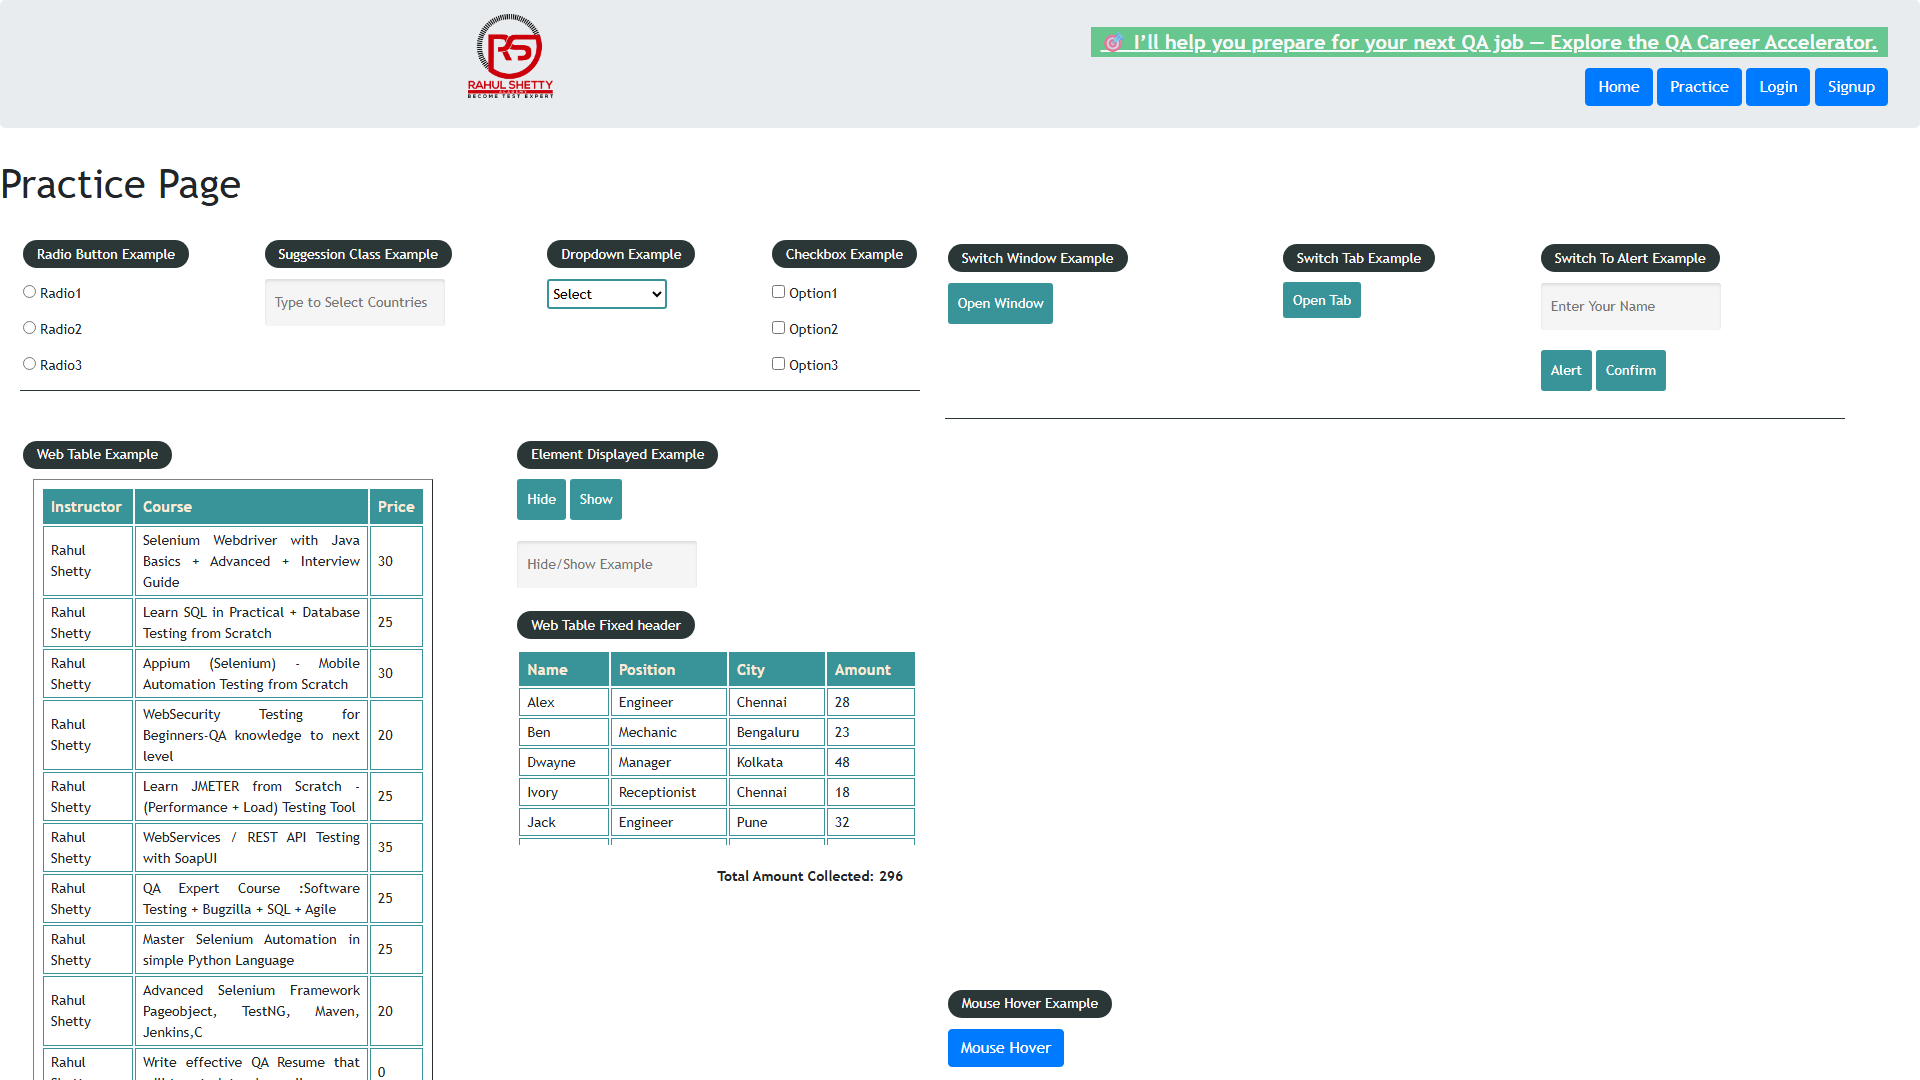
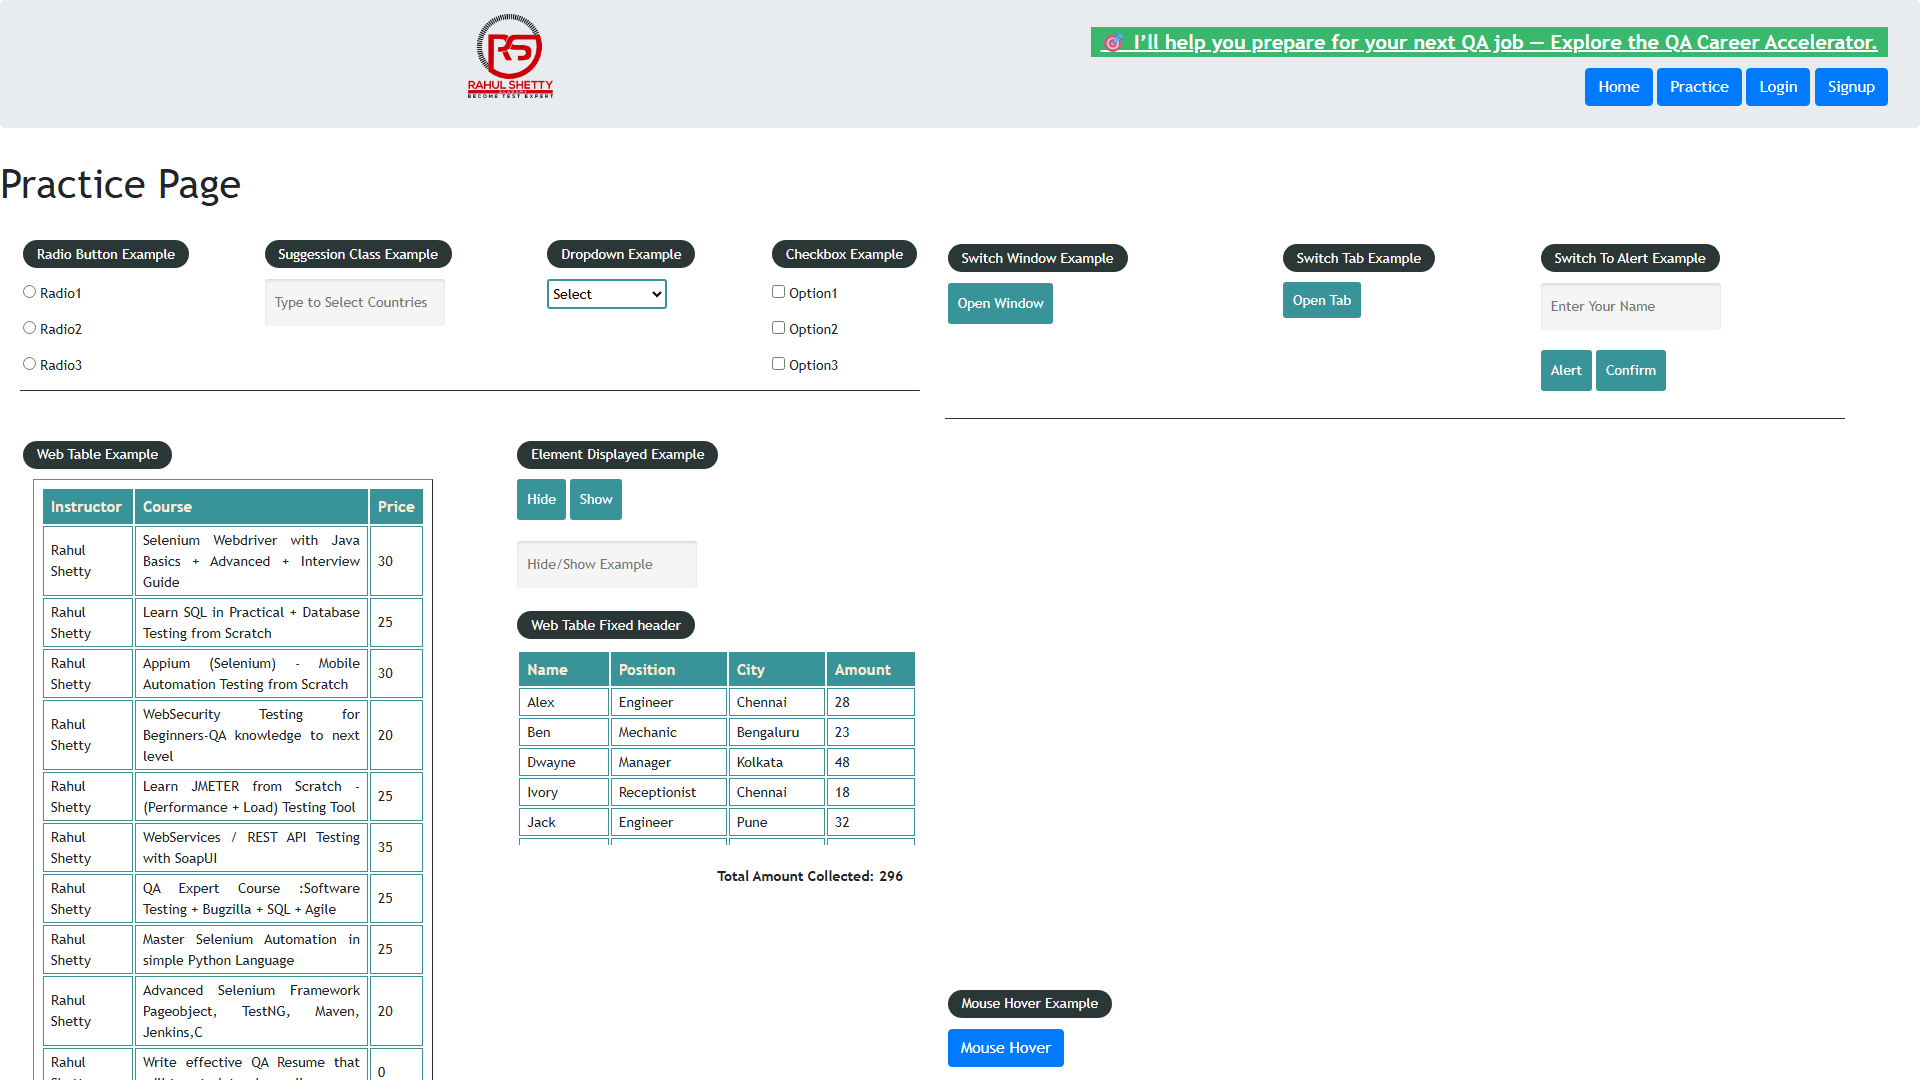
updated

Changed region(s): [[0.5625, 0.0, 1.0, 0.0611]]

diff --git a/rahulshetty_tests/specialLocators.spec.js b/rahulshetty_tests/specialLocators.spec.js
@@ -1,5 +1,5 @@
 import { test, expect } from '@playwright/test';
- 
+/*
 test('Playwright Special locators', async ({ browser }) => {
 
     const context = await browser.newContext
@@ -28,4 +28,60 @@ test('Playwright Special locators', async ({ browser }) => {
     await page.getByText('× Success! Thank you! Your').click();
   
 });
+*/
 
+/*
+test("Sauce Labs - Website", async({ browser }) => {
+
+    const context = await browser.newContext({ viewport: { width: 1920, height: 1080 }});
+    const page = await context.newPage();
+
+    await page.goto("https://sauce-demo.myshopify.com/account/register");
+
+    //Assertions
+    await expect(page.getByRole("link", { name: "My Cart (0)" })).toBeVisible();
+
+});
+*/
+
+test.describe("Sauce Demo", () => {
+    test("registers a customer and reads home page product details", async ({ page }) => {
+        await page.setViewportSize({ width: 1920, height: 1080 });
+
+        const customer = {
+            firstName: "Siva",
+            lastName: "Kalyan",
+            email: `testUser${Date.now()}@mailinator.com`,
+            password: `Test${Date.now()}-Sk!`,
+        };
+        console.log("Registration email:", customer.email);
+        console.log("Registration password:", customer.password);
+
+        const registrationForm = page.locator(" ");
+
+        await page.goto("https://sauce-demo.myshopify.com/account/register");
+        await page.pause();
+        await registrationForm.locator('[name="customer[first_name]"]').fill(customer.firstName);
+        await registrationForm.locator('[name="customer[last_name]"]').fill(customer.lastName);
+        await registrationForm.locator('[name="customer[email]"]').fill(customer.email);
+        await registrationForm.locator('[name="customer[password]"]').fill(customer.password);
+        await registrationForm.getByRole("button", { name: "Create", exact: true }).click();
+    
+        await expect(page).toHaveURL(/\/account\/?(?:[?#]|$)/, { timeout: 15000 });
+        await expect(page.getByRole("link", { name: /log out/i })).toBeVisible();
+
+        await page.goto("https://sauce-demo.myshopify.com/");
+        const productLinks = page.locator('a[id^="product-"]');
+        await expect(productLinks.first()).toBeVisible();
+
+        const products = await productLinks.evaluateAll(links =>
+            links.map(link => {
+                const [name, price] = link.innerText.trim().split(/\r?\n/);
+                return { name, price };
+            })
+        );
+
+        expect(products).not.toHaveLength(0);
+        console.log("Home page products:", products);
+     });
+});

diff --git a/Sauce_Labs_tests1/test.spec.js b/Sauce_Labs_tests1/test.spec.js
@@ -1,0 +1,13 @@
+const { test, expect } = require("@playwright/test");
+
+test("Sauce Labs", async({ browser }) => {
+
+    const context = await browser.newContext({ viewport: { width: 1920, height: 1080 }});
+    const page = await context.newPage();
+
+    await page.goto("https://sauce-demo.myshopify.com/account/register");
+
+    //Assertions
+    await expect(page.getByRole("link", { name: "My Cart (0)" })).toBeVisible();
+
+});
